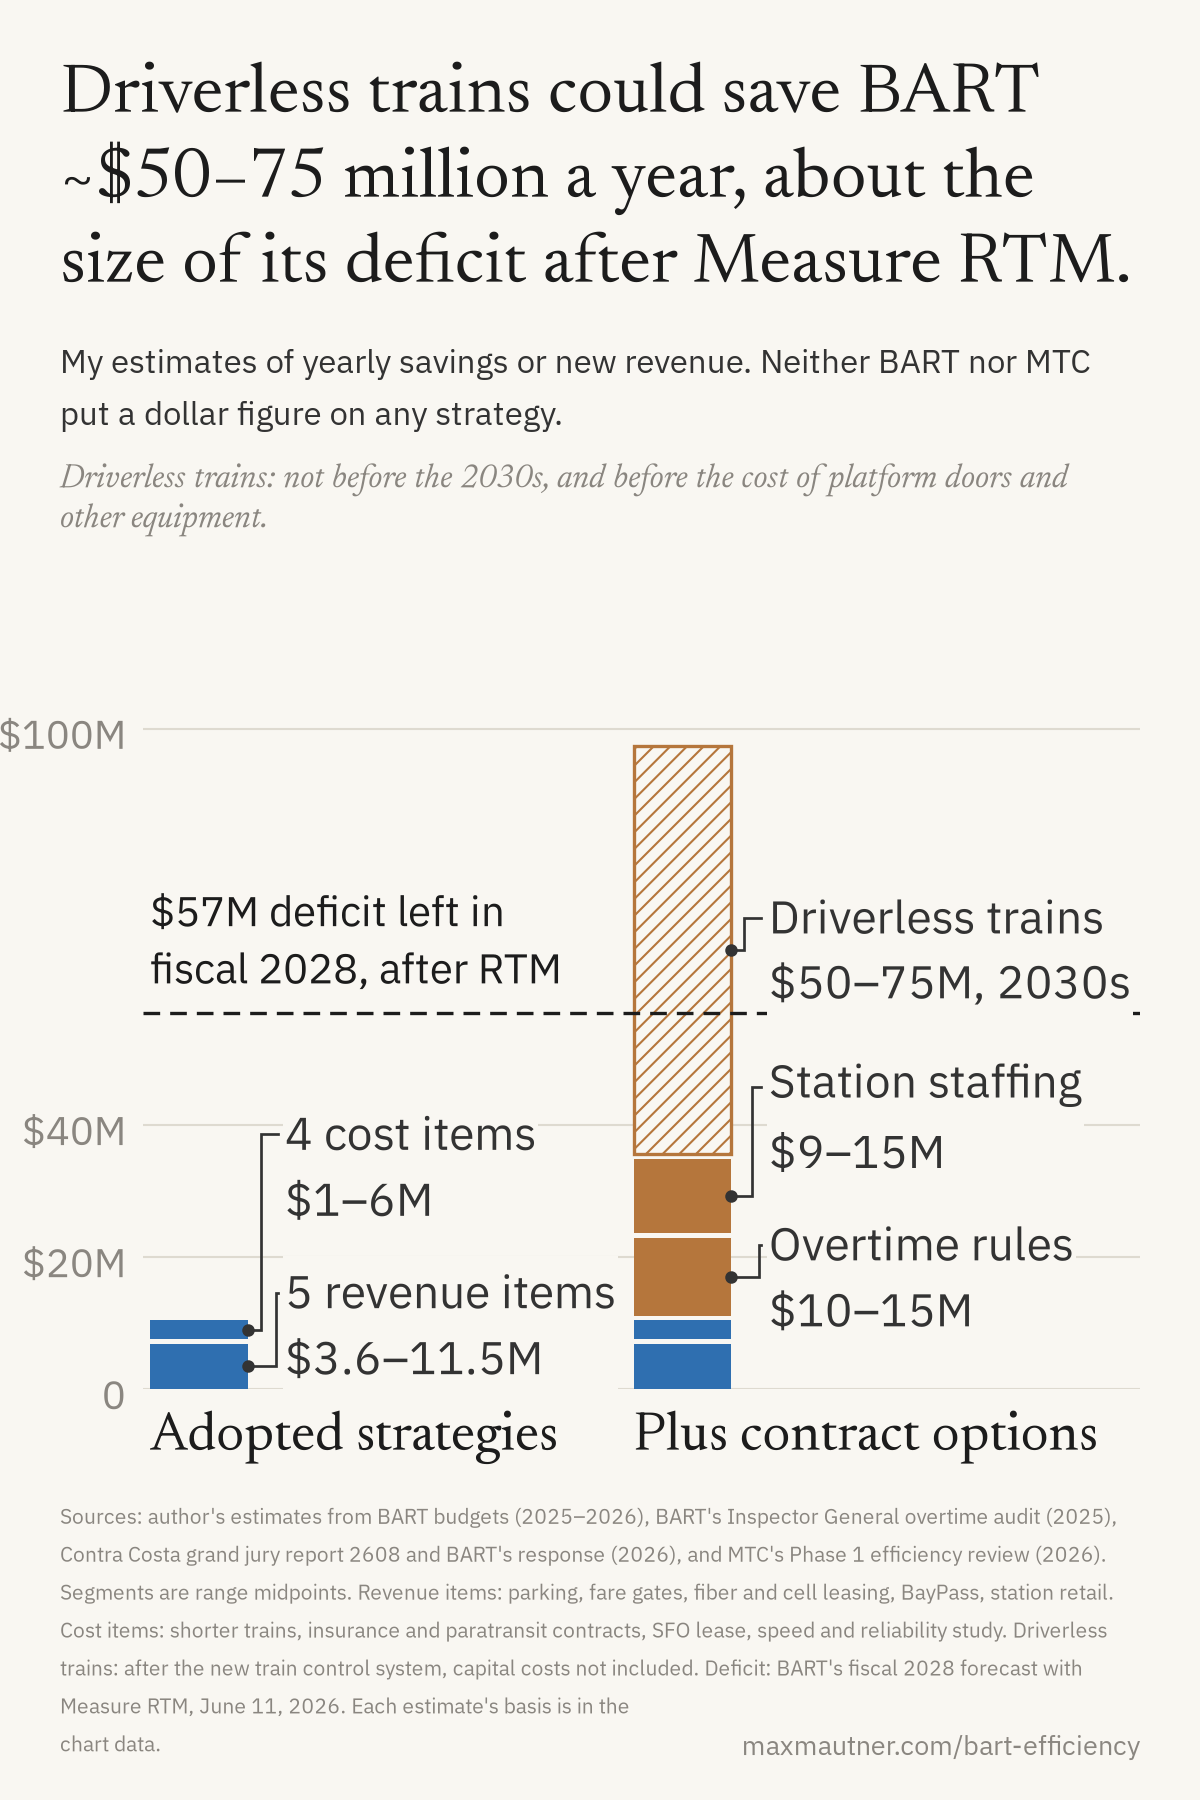
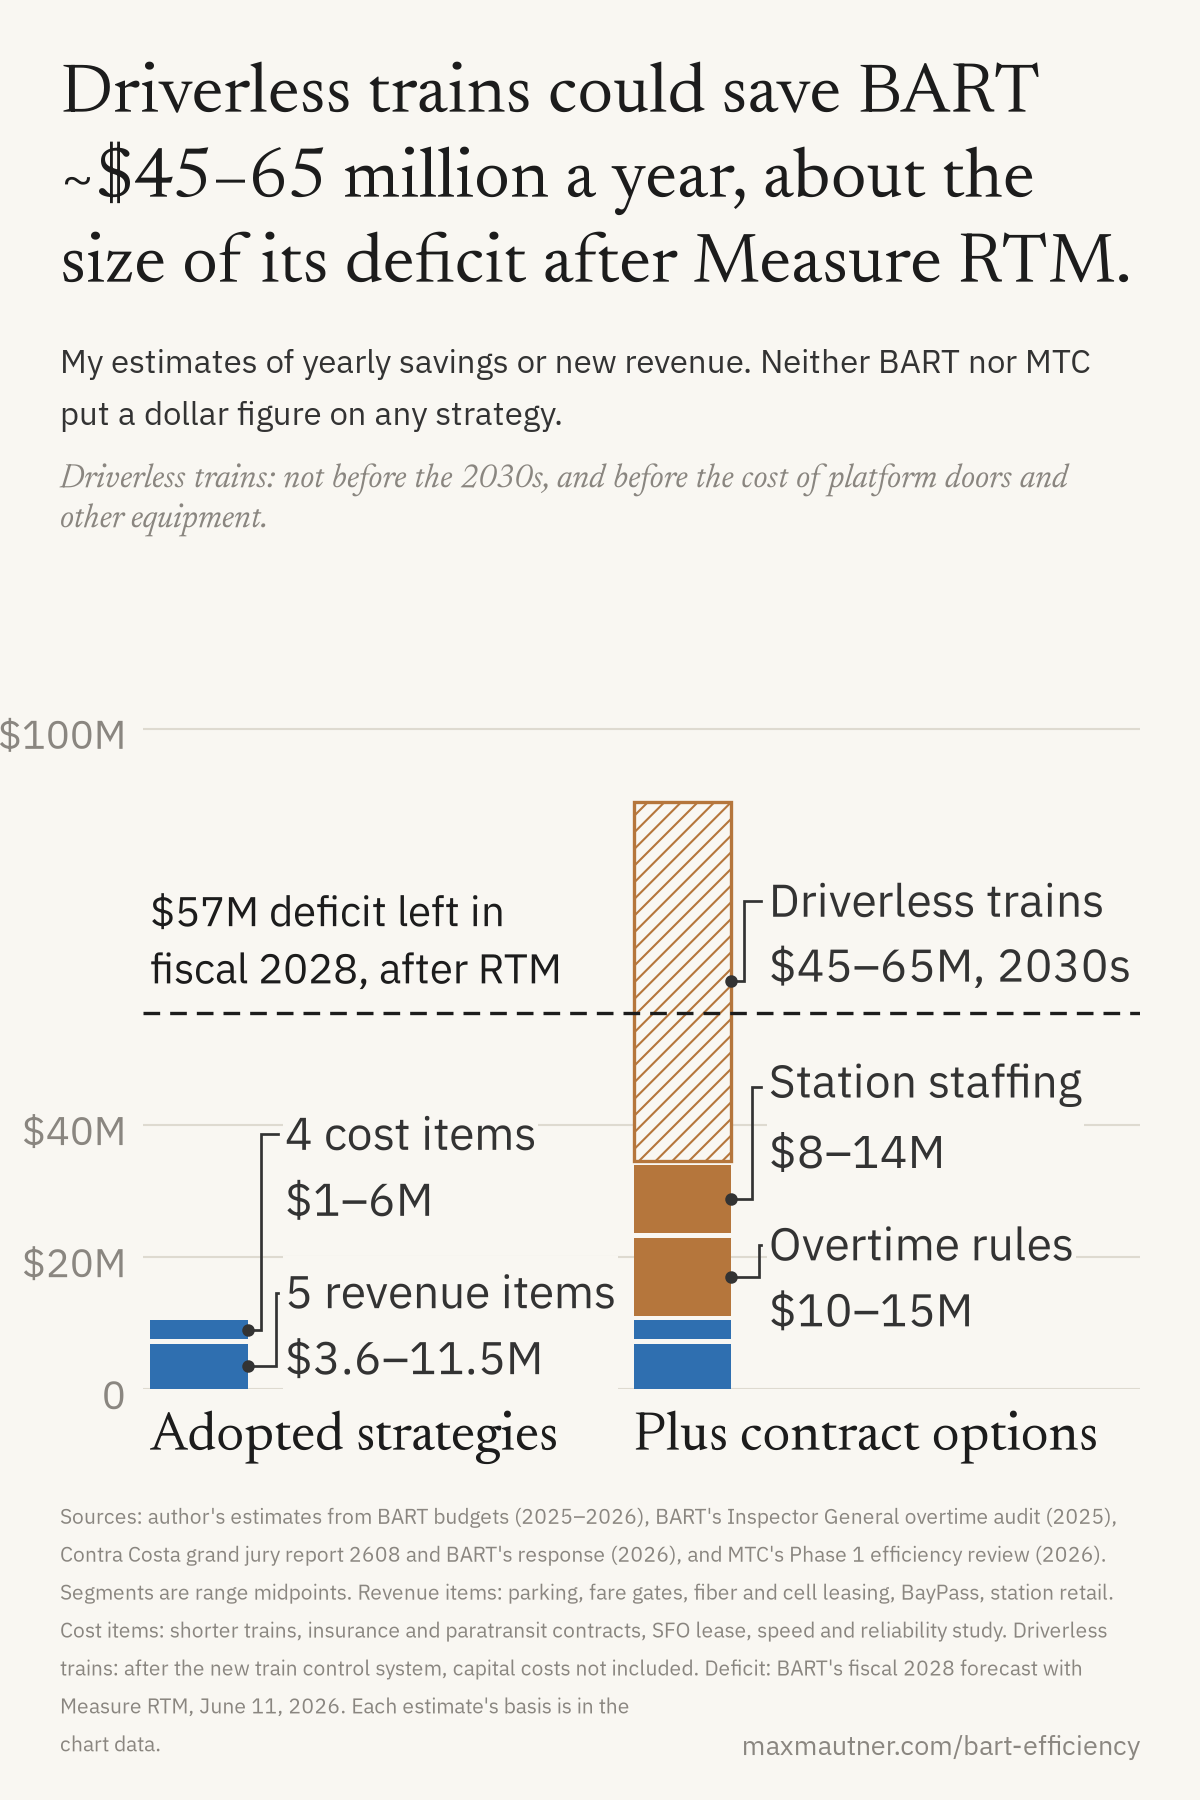
bart-efficiency: correct operator and station agent pay to BART's own figures
Driverless savings ~$45-65M (was ~$50-75M) from BART's $81-83M for 503
operators; station staffing ~$8-14M (was ~$9-15M), since station agents
share the operators' pay scale. Reported by a reader on Bluesky.

diff --git a/2026-11-11-bart-efficiency/charts/charts.py b/2026-11-11-bart-efficiency/charts/charts.py
@@ -77,10 +77,10 @@ def estimates(fmt_name, name):
     a_lo, a_hi = sum(s[1] for s in adopted), sum(s[2] for s in adopted)
     o_lo, o_hi = sum(s[1] for s in left_out), sum(s[2] for s in left_out)
     assert (round(a_lo), round(a_hi)) == (5, 18), "column totals: ~$5-18 million"
-    assert (round(o_lo), round(o_hi)) == (69, 105), "column totals: ~$69-105 million"
+    assert (round(o_lo), round(o_hi)) == (63, 94), "column totals: ~$63-94 million"
 
     p = Page(fmt_name,
-             "Driverless trains could save BART ~$50–75 million a year, about the size of its deficit after "
+             "Driverless trains could save BART ~$45–65 million a year, about the size of its deficit after "
              "Measure RTM.",
              # social: the caveat joins the subtitle, since a separate note squeezed the plot until labels collided
              "My estimates of yearly savings or new revenue. Neither BART nor MTC put a dollar figure on any "
@@ -139,6 +139,9 @@ def estimates(fmt_name, name):
         # labels sit beside their own segment when there's room; only a label pushed clear of its segment
         # gets a leader. With several leaders, the lowest bends farthest out so no lines cross.
         ys = spread([max(m[0], half) for m in mids], 2 * half + (0.2 if blog else 0.12) * per_in)
+        if blog:  # a label the dashed deficit line would cut through moves just above the line
+            clear = 0.1 * per_in
+            ys = [DEFICIT + half + clear if y - half - clear < DEFICIT < y + half + clear else y for y in ys]
         edge = x + col_w / 2
         # every label gets a leader: a reader (Adam, Nov. 2026) found an unleadered label beside its own
         # segment harder to match than the leadered ones

diff --git a/2026-11-11-bart-efficiency/README.md b/2026-11-11-bart-efficiency/README.md
@@ -24,7 +24,8 @@ strategy. `data/estimates.csv` gives each estimate's basis and timing.
 - Contra Costa Civil Grand Jury [Report 2608](https://contracosta.courts.ca.gov/system/files/general/report-2608-signed-cover.pdf) (p. 9: existing revenue initiatives) and [BART's response](https://contracosta.courts.ca.gov/system/files/general/response-report-no-2608-bart-board-directors.pdf) (p. 23: ATU location-based staffing ~11% of the workforce).
 - BART [funding fact sheet](https://www.bart.gov/sites/default/files/2026-03/FundingOverview_Factsheet_030426.pdf), Mar. 2026: fare gates ~$10M a year.
 - SF Board of Supervisors [Res. 55-25](https://sfbos.org/sites/default/files/r0055-25.pdf): SFO lease $2.5M a year.
-- SF Examiner, [Sept. 22, 2025](https://www.sfexaminer.com/news/transit/why-bart-train-operator-loves-his-job--warts-and-all/article_606e13ad-eda9-4033-8aac-3acb73cbd006.html): 486 train operators, per a BART spokesman.
+- BART, [Train Automation Facts](https://www.bart.gov/about/financials/crisis): 503 train operators; their wages, benefits and overtime are $81–83M in the FY27 preliminary budget; the CPUC requires a train operator; 4,599 FTEs in all.
+- ATU [contract](https://www.bart.gov/sites/default/files/2025-04/ATU%20%282021-2027%29%20%5BInterim%5D.pdf), S47.1: station agents and train operators share one wage schedule.
 
 ## Other sources cited in the post
 
@@ -46,10 +47,13 @@ Linked once in the post or not at all, to keep the post readable; listed here so
 - Adopted items are counted only beyond what the FY27 budget already includes.
 - Overtime rules: the Inspector General's ~$6M plus ~5–10% of overtime from leave-counting, missed-break and
   no-cap rules, net of some straight-time backfill.
-- Station staffing: 15–25% of the ~470 location-staffed positions through attrition at ~$190K each, with ~1/3
-  redeployed to platforms and trains.
-- Driverless trains: 486 operators at ~$190K is ~$92M; keeping ~20–45% of that for roving attendants and control
-  staff leaves ~$50–75M. 2030s, only if BART's board chooses it; capital costs (platform doors) not included. Shown hatched.
+- Station staffing: 15–25% of the ~505 location-staffed positions (11% of BART's 4,599 FTEs, mostly station agents)
+  through attrition at ~$163K each, BART's FY27 cost per train operator including overtime, since station agents
+  share the operators' pay scale (ATU contract, S47.1); ~1/3 redeployed to platforms and trains. Corrected Nov. 11,
+  2026: first published as ~470 positions at ~$190K each, ~$9–15M.
+- Driverless trains: BART budgets $81–83M for its 503 train operators' wages, benefits and overtime in FY27; keeping
+  ~20–45% of that for roving attendants and control staff leaves ~$45–65M. Corrected Nov. 11, 2026: first published
+  as 486 operators at ~$190K each (an all-staff figure), ~$50–75M. 2030s, only if BART's board chooses it; capital costs (platform doors) and their upkeep not included; the CPUC now requires an operator aboard. Shown hatched.
 
 ## Reproduce
 
